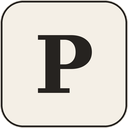
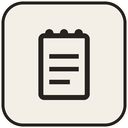
Theme controls: sliding Light/Dark switch in settings, sun/moon toggle in panel
- Settings theme control is now a two-box slider with an ink thumb that
  animates between Light and Dark
- Side panel header gains a sun/moon button (icon shows the mode you'd
  switch to), next to the settings gear
- Extension icons redrawn as a minimal ink notepad on paper

Changed region(s): [[0.0, 0.0, 1.0, 1.0], [0.2812, 0.2188, 0.7188, 0.7812]]

diff --git a/src/icons.js b/src/icons.js
@@ -18,6 +18,8 @@ const ICONS = {
   text: `<svg ${STROKE_ATTRS}><path d="M17 6.1H3"/><path d="M21 12.1H3"/><path d="M15.1 18H3"/></svg>`,
   tag: `<svg ${STROKE_ATTRS}><path d="M12.59 2.59A2 2 0 0 0 11.17 2H4a2 2 0 0 0-2 2v7.17a2 2 0 0 0 .59 1.42l8.7 8.7a2.43 2.43 0 0 0 3.42 0l6.58-6.58a2.43 2.43 0 0 0 0-3.42z"/><circle cx="7.5" cy="7.5" r=".5" fill="currentColor"/></svg>`,
   check: `<svg ${STROKE_ATTRS}><path d="M20 6 9 17l-5-5"/></svg>`,
+  sun: `<svg ${STROKE_ATTRS}><circle cx="12" cy="12" r="4"/><path d="M12 2v2"/><path d="M12 20v2"/><path d="m4.93 4.93 1.41 1.41"/><path d="m17.66 17.66 1.41 1.41"/><path d="M2 12h2"/><path d="M20 12h2"/><path d="m6.34 17.66-1.41 1.41"/><path d="m19.07 4.93-1.41 1.41"/></svg>`,
+  moon: `<svg ${STROKE_ATTRS}><path d="M12 3a6 6 0 0 0 9 9 9 9 0 1 1-9-9Z"/></svg>`,
   search: `<svg ${STROKE_ATTRS}><circle cx="11" cy="11" r="8"/><path d="m21 21-4.3-4.3"/></svg>`,
   github: `<svg ${STROKE_ATTRS}><path d="M15 22v-4a4.8 4.8 0 0 0-1-3.5c3 0 6-2 6-5.5.08-1.25-.27-2.48-1-3.5.28-1.15.28-2.35 0-3.5 0 0-1 0-3 1.5-2.64-.5-5.36-.5-8 0C6 2 5 2 5 2c-.3 1.15-.3 2.35 0 3.5A5.403 5.403 0 0 0 4 9c0 3.5 3 5.5 6 5.5-.39.49-.68 1.05-.85 1.65-.17.6-.22 1.23-.15 1.85v4"/><path d="M9 18c-4.51 2-5-2-7-2"/></svg>`,
   linkedin: `<svg ${STROKE_ATTRS}><path d="M16 8a6 6 0 0 1 6 6v7h-4v-7a2 2 0 0 0-2-2 2 2 0 0 0-2 2v7h-4V8h4v2"/><rect width="4" height="12" x="2" y="9"/><circle cx="4" cy="4" r="2"/></svg>`,

diff --git a/panel/panel.js b/panel/panel.js
@@ -156,7 +156,27 @@ for (const id of ["settings", "empty-settings"]) {
     .getElementById(id)
     .addEventListener("click", () => chrome.runtime.openOptionsPage());
 }
+
+// Sun/moon theme toggle: the icon shows the mode you'd switch to.
+const themeToggle = document.getElementById("theme-toggle");
+
+async function renderThemeToggle() {
+  const { mode } = await loadTheme();
+  themeToggle.innerHTML = mode === "dark" ? ICONS.sun : ICONS.moon;
+  themeToggle.title =
+    mode === "dark" ? "Switch to light mode" : "Switch to dark mode";
+}
+
+themeToggle.addEventListener("click", async () => {
+  const theme = await loadTheme();
+  theme.mode = theme.mode === "dark" ? "light" : "dark";
+  applyTheme(theme);
+  await saveTheme(theme);
+  renderThemeToggle();
+});
+
 chrome.storage.onChanged.addListener((changes, area) => {
+  if (area === "sync" && changes.theme) renderThemeToggle();
   // Only rebuild the list when entries or resumes actually change.
   // Rebuilding on every key (theme, armed, ...) would destroy the row
   // mid-"Copied" animation, since arming writes storage on copy.
@@ -168,4 +188,5 @@ chrome.storage.onChanged.addListener((changes, area) => {
 });
 
 initTheme();
+renderThemeToggle();
 refresh();

diff --git a/options/options.js b/options/options.js
@@ -10,15 +10,23 @@ let dragId = null;
 async function initAppearance() {
   const theme = await loadTheme();
 
-  const toggle = document.getElementById("mode-toggle");
-  const renderMode = () =>
-    (toggle.textContent = theme.mode === "dark" ? "Dark" : "Light");
-  toggle.addEventListener("click", async () => {
-    theme.mode = theme.mode === "dark" ? "light" : "dark";
-    renderMode();
-    applyTheme(theme);
-    await saveTheme(theme);
-  });
+  const slider = document.getElementById("mode-slider");
+  const modeButtons = [...slider.querySelectorAll("button")];
+  const renderMode = () => {
+    slider.dataset.mode = theme.mode;
+    modeButtons.forEach((b) =>
+      b.classList.toggle("active", b.dataset.mode === theme.mode)
+    );
+  };
+  modeButtons.forEach((b) =>
+    b.addEventListener("click", async () => {
+      if (theme.mode === b.dataset.mode) return;
+      theme.mode = b.dataset.mode;
+      renderMode();
+      applyTheme(theme);
+      await saveTheme(theme);
+    })
+  );
   renderMode();
 
   // Keep the toggle in sync when the theme changes elsewhere

diff --git a/options/options.css b/options/options.css
@@ -34,18 +34,40 @@ h2 { font-size: 17px; font-weight: 600; margin: 0 0 6px; }
   color: var(--faint);
 }
 
-#mode-toggle {
+.mode-slider {
+  position: relative;
+  display: inline-flex;
   border: 1px solid var(--fg);
-  background: none;
-  padding: 7px 28px;
-  font: inherit;
-  font-size: 14px;
-  color: var(--fg);
-  cursor: pointer;
   width: fit-content;
 }
 
-#mode-toggle:hover { background: var(--fg); color: var(--bg); }
+.mode-slider .thumb {
+  position: absolute;
+  top: 0;
+  left: 0;
+  width: 50%;
+  height: 100%;
+  background: var(--fg);
+  transition: translate 0.22s ease;
+}
+
+.mode-slider[data-mode="dark"] .thumb { translate: 100% 0; }
+
+.mode-slider button {
+  position: relative;
+  width: 86px;
+  border: none;
+  background: none;
+  padding: 7px 0;
+  font: inherit;
+  font-size: 14px;
+  color: var(--muted);
+  cursor: pointer;
+  transition: color 0.22s ease;
+}
+
+.mode-slider button:hover { color: var(--fg); }
+.mode-slider button.active { color: var(--bg); }
 
 /* ---------- behavior ---------- */
 

diff --git a/panel/panel.html b/panel/panel.html
@@ -10,6 +10,7 @@
   <header>
     <div class="brand">
       <span class="brand-name">Paste Pal</span>
+      <button id="theme-toggle" title="Switch theme"></button>
       <button id="settings" title="Edit entries">
         <svg viewBox="0 0 24 24" fill="none" stroke="currentColor" stroke-width="2" stroke-linecap="round" stroke-linejoin="round"><path d="M12.22 2h-.44a2 2 0 0 0-2 2v.18a2 2 0 0 1-1 1.73l-.43.25a2 2 0 0 1-2 0l-.15-.08a2 2 0 0 0-2.73.73l-.22.38a2 2 0 0 0 .73 2.73l.15.1a2 2 0 0 1 1 1.72v.51a2 2 0 0 1-1 1.74l-.15.09a2 2 0 0 0-.73 2.73l.22.38a2 2 0 0 0 2.73.73l.15-.08a2 2 0 0 1 2 0l.43.25a2 2 0 0 1 1 1.73V20a2 2 0 0 0 2 2h.44a2 2 0 0 0 2-2v-.18a2 2 0 0 1 1-1.73l.43-.25a2 2 0 0 1 2 0l.15.08a2 2 0 0 0 2.73-.73l.22-.39a2 2 0 0 0-.73-2.73l-.15-.08a2 2 0 0 1-1-1.74v-.5a2 2 0 0 1 1-1.74l.15-.09a2 2 0 0 0 .73-2.73l-.22-.38a2 2 0 0 0-2.73-.73l-.15.08a2 2 0 0 1-2 0l-.43-.25a2 2 0 0 1-1-1.73V4a2 2 0 0 0-2-2z"/><circle cx="12" cy="12" r="3"/></svg>
       </button>

diff --git a/panel/panel.css b/panel/panel.css
@@ -20,8 +20,7 @@ header {
   font-weight: 600;
 }
 
-#settings {
-  margin-left: auto;
+#theme-toggle, #settings {
   border: none;
   background: none;
   cursor: pointer;
@@ -31,8 +30,10 @@ header {
   place-items: center;
 }
 
-#settings svg { width: 16px; height: 16px; }
-#settings:hover { color: var(--fg); }
+#theme-toggle { margin-left: auto; }
+
+#theme-toggle svg, #settings svg { width: 16px; height: 16px; }
+#theme-toggle:hover, #settings:hover { color: var(--fg); }
 
 main { padding: 0 0 16px; }
 

diff --git a/options/options.html b/options/options.html
@@ -18,7 +18,11 @@
       <div class="appearance-row">
         <div class="control-group">
           <span class="control-label">Theme</span>
-          <button id="mode-toggle" title="Switch between light and dark"></button>
+          <div class="mode-slider" id="mode-slider" role="radiogroup">
+            <span class="thumb"></span>
+            <button data-mode="light">Light</button>
+            <button data-mode="dark">Dark</button>
+          </div>
         </div>
       </div>
     </section>
